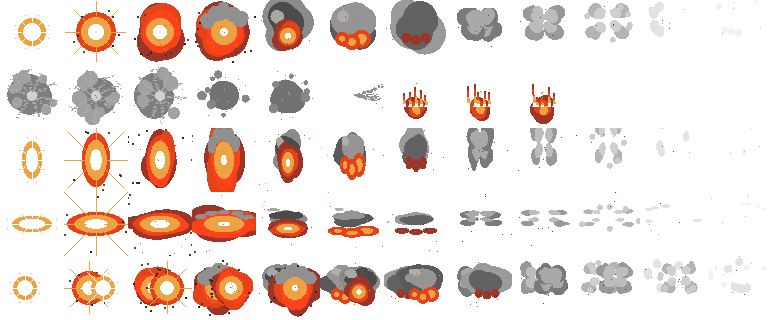
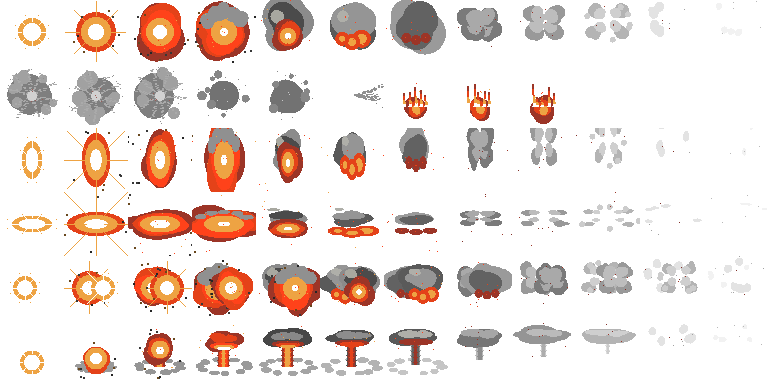
Tank deaths go up as a mushroom cloud in 70% of kills
A new row 5 on barrel_explosion.png (gen_barrel_explosion.py, rows 0-4
byte-identical) draws a mushroom cloud: a fireball climbing a stem of
fire into a rolling cap over a ring of dust. BlastFx::wreck picks it for
wreck_mushroom_chance (default 0.7) of tank kills from a salted position
hash, so no RNG is drawn; the cloud is never quarter-turned and is
lifted so its stem stands on the hull. Barrels never pick it.

Claude-Session: https://claude.ai/code/session_01ChqbDrSDVfRsu29UVhWnEq

diff --git a/tools/spritegen/gen_barrel_explosion.py b/tools/spritegen/gen_barrel_explosion.py
@@ -1,7 +1,7 @@
 """Generate static/barrel_explosion.png - the oil barrel's blast animation
 and the scorch marks it leaves (docs/PROPS_SPEC.md, blast.rs).
 
-Layout: 768x320, five rows of 64x64 cells.
+Layout: 768x384, six rows of 64x64 cells.
     row 0  cols 0-11  the one-shot blast: flash, fireball, mushroom, smoke
     row 1  cols 0-4   five scorch-decal variants (three blots, two oil
                       splatters), col 5 the directional streak a shot's
@@ -11,6 +11,9 @@ Layout: 768x320, five rows of 64x64 cells.
     row 2  cols 0-11  the tall blast: a narrow column that rises fast
     row 3  cols 0-11  the flat blast: a wide, low splash, little smoke
     row 4  cols 0-11  the double blast: two cores, the second a beat behind
+    row 5  cols 0-11  the mushroom cloud a dying tank goes up in: a fireball
+                      that climbs a stem of fire, spreads into a rolling
+                      cap over a ring of dust, and thins out as smoke
 Row 0 is drawn by exactly the code it always was, so it is byte-identical
 to the single-row sheet; the new rows share its primitives through a
 shape table (sx, sy, rise, smoke, twin) and pick the same frame stages.
@@ -40,7 +43,7 @@ SCORCHES = 5
 STREAK_COL = 5
 FIRE_COL = 6
 FIRE_FRAMES = 3
-ROWS = 5
+ROWS = 6
 OUT = os.environ.get('SPRITE_OUT', 'assets/sprites')
 os.makedirs(OUT, exist_ok=True)
 
@@ -402,6 +405,110 @@ def double_frame(f, rng, sh):
     return first
 
 
+# ---------------------------------------------------------------- mushroom cloud
+# Row 5, a tank's death: never quarter-turned (the stem has to point up),
+# so every frame is drawn upright. The column stands on BASE, a little
+# below the cell centre, so the fire climbs off the hull rather than off
+# the ground behind it; the cap tops out near the cell's upper edge.
+BASE = 46
+
+
+def stem(img, top, bottom, w, cols):
+    """The column: nested widths, outermost colour first, a pixel of
+    wobble per row so it reads as rolling fire rather than a pipe."""
+    for i, c in enumerate(cols):
+        half = w * (1 - i / len(cols))
+        for y in range(int(top), int(bottom) + 1):
+            wob = 1 if (y * 7 + i * 3) % 5 == 0 else 0
+            for x in range(int(CX - half) - wob, int(CX + half) + 1 + wob):
+                put(img, x + 0.5, y, c)
+
+
+def skirt(img, rx, ry, c, rng, n=10):
+    """The ring of dust thrown out along the ground at the base."""
+    for k in range(n):
+        a = k * math.tau / n + rng.random() * 0.3
+        ell(img, CX + math.cos(a) * rx, BASE + math.sin(a) * ry, 4 + rng.random() * 2, 2 + rng.random(), c)
+
+
+def cap(img, cy, rx, ry, outer, inner, belly, rng):
+    """The rolling head: a lumpy flattened dome of `outer`, a smaller
+    `inner` roll on top, and `belly` - the fire still lighting its
+    underside - along the bottom edge."""
+    elump(img, CX, cy, rx, ry, outer, rng, 9)
+    elump(img, CX - rx * 0.25, cy - ry * 0.35, rx * 0.5, ry * 0.45, inner, rng, 5)
+    elump(img, CX + rx * 0.3, cy - ry * 0.3, rx * 0.45, ry * 0.4, inner, rng, 5)
+    if belly:
+        for k, c in enumerate(belly):
+            ell(img, CX, cy + ry * (0.45 + 0.12 * k), rx * (0.7 - 0.18 * k), ry * (0.35 - 0.08 * k), c)
+
+
+def mushroom_frame(f, rng):
+    img = blank()
+    if f == 0:
+        disc(img, CX, BASE - 4, 8, C(WHITE))
+        annulus(img, CX, BASE - 4, 8, 12, C(GOLD_BRIGHT))
+        rays(img, CX, BASE - 4, 17, C(WHITE), start=9)
+    elif f == 1:
+        skirt(img, 16, 5, smoke(200), rng)
+        lump(img, CX, BASE - 8, 15, C(RED_MD), rng, 7)
+        disc(img, CX, BASE - 8, 11, C(GOLD_BRIGHT))
+        disc(img, CX, BASE - 8, 6, C(WHITE))
+        debris(img, CX, BASE - 6, 20, 8, rng, DEBRIS)
+    elif f == 2:
+        skirt(img, 21, 6, smoke(210), rng)
+        stem(img, BASE - 14, BASE, 5, [C(RED_DEEP), C(RED_MD), C(GOLD_BRIGHT)])
+        lump(img, CX, BASE - 18, 16, C(RED_DEEP), rng, 8)
+        lump(img, CX, BASE - 18, 13, C(RED_MD), rng, 7)
+        disc(img, CX, BASE - 17, 9, C(GOLD_BRIGHT))
+        disc(img, CX, BASE - 16, 4, C(WHITE))
+        debris(img, CX, BASE - 12, 24, 10, rng, DEBRIS)
+        embers(img, CX, BASE - 14, 24, 10, rng, [C(GOLD_BRIGHT), C(RED_BRIGHT)])
+    elif f == 3:
+        skirt(img, 24, 7, smoke(200), rng)
+        stem(img, BASE - 22, BASE, 5, [C(RED_DEEP), C(RED_MD), C(RED_BRIGHT), C(GOLD_BRIGHT)])
+        cap(img, BASE - 25, 20, 10, C(RED_DEEP), C(RED_MD),
+            [C(RED_BRIGHT), C(GOLD_BRIGHT), C(WHITE)], rng)
+        embers(img, CX, BASE - 20, 24, 12, rng, [C(GOLD_BRIGHT), C(RED_BRIGHT)])
+    elif f == 4:
+        skirt(img, 25, 7, smoke(180), rng)
+        stem(img, BASE - 24, BASE, 5, [C(RED_DEEP), C(RED_MD), C(GOLD_BRIGHT)])
+        cap(img, BASE - 27, 23, 10, smoke_dk(235), smoke(235),
+            [C(RED_DEEP), C(RED_MD), C(GOLD_BRIGHT)], rng)
+        embers(img, CX, BASE - 22, 24, 10, rng, [C(GOLD_BRIGHT), C(RED_BRIGHT), C(RED_MD)])
+    elif f == 5:
+        skirt(img, 26, 7, smoke(150), rng)
+        stem(img, BASE - 26, BASE, 4, [smoke_dk(220), C(RED_DEEP), C(RED_MD)])
+        cap(img, BASE - 28, 24, 10, smoke_dk(225), smoke(225),
+            [C(RED_DEEP), C(RED_MD)], rng)
+        embers(img, CX, BASE - 24, 24, 8, rng, [C(GOLD_BRIGHT), C(RED_BRIGHT)])
+    elif f == 6:
+        skirt(img, 26, 7, smoke(115), rng)
+        stem(img, BASE - 27, BASE - 2, 4, [smoke(200), smoke_dk(200), C(RED_DEEP)])
+        cap(img, BASE - 29, 25, 10, smoke_dk(210), smoke_lt(210), [C(RED_DEEP)], rng)
+        embers(img, CX, BASE - 26, 26, 6, rng, [C(RED_BRIGHT), C(RED_MD)])
+    elif f in (7, 8, 9):
+        alpha = {7: 175, 8: 135, 9: 95}[f]
+        rise = f - 6
+        stem(img, BASE - 28 - rise, BASE - 4 - rise * 3, 3 - (f - 7), [smoke(alpha - 30), smoke_dk(alpha - 30)])
+        cap(img, BASE - 30 - rise // 2, 25 + rise, 10 - (f - 7), smoke_dk(alpha), smoke(alpha), None, rng)
+        embers(img, CX, BASE - 30, 24, 8 - (f - 7) * 2, rng, [C(RED_DK), C(RED_DEEP)])
+    elif f == 10:
+        for k in range(6):
+            a = rng.random() * math.tau
+            lump(img, CX + math.cos(a) * 22, BASE - 32 + math.sin(a) * 7, 5, smoke(55), rng, 4)
+        for _ in range(4):
+            put(img, CX + rng.randint(-26, 26), BASE - 32 + rng.randint(-8, 18), smoke_dk(120))
+        embers(img, CX, BASE - 30, 20, 2, rng, [C(RED_DK)])
+    else:
+        for k in range(5):
+            a = rng.random() * math.tau
+            lump(img, CX + math.cos(a) * 24, BASE - 33 + math.sin(a) * 7, 3, smoke(25), rng, 3)
+        for _ in range(5):
+            put(img, CX + rng.randint(-27, 27), BASE - 33 + rng.randint(-8, 18), smoke_dk(90))
+    return img
+
+
 def streak(rng):
     """Oil thrown downrange by a shot's blast: streaks fanning out to the
     right from just off centre, drawn over the blot."""
@@ -481,5 +588,7 @@ for row, name in ((2, 'tall'), (3, 'flat'), (4, 'double')):
         rng = random.Random(1200 + row * 100 + f * 7)
         cell = double_frame(f, rng, sh) if sh['twin'] else shaped_frame(f, rng, sh)
         sheet.paste(cell, (f * S, row * S))
+for f in range(FRAMES):
+    sheet.paste(mushroom_frame(f, random.Random(1800 + f * 7)), (f * S, 5 * S))
 sheet.save(f'{OUT}/barrel_explosion.png')
 print('barrel_explosion.png', sheet.size)

diff --git a/src/blast.rs b/src/blast.rs
@@ -22,7 +22,9 @@ use crate::{
     BARREL_EXPLOSION_TEXTURE_SIZE,
     BLAST_ROW_DOUBLE,
     BLAST_ROW_FLAT,
+    BLAST_MUSHROOM_BASE_DROP,
     BLAST_ROW_MUSHROOM,
+    BLAST_ROW_MUSHROOM_CLOUD,
     BLAST_ROW_TALL,
     BLAST_SHAPE_ROWS,
     FIRE_LOOP_COL,
@@ -66,6 +68,10 @@ fn avalanche(mut h: u32) -> u32 {
     h ^= h >> 16;
     h
 }
+
+/// `seed_at` salt for the wreck's mushroom-cloud pick, clear of the
+/// other salts hashed at a kill position (parts, rubble, particles).
+const WRECK_MUSHROOM_SALT: u32 = 211;
 
 /// A unit-ish direction in the plane, for the cosmetic lean of a blast.
 /// Plain fields rather than a `Vector2` so the simulation can hand one
@@ -131,9 +137,32 @@ pub struct BlastFx {
 
 impl BlastFx {
     /// The reference fireball at `center`: the hashed shape, mirror,
-    /// turn and jitter with no cause-driven lean. What a dying tank uses.
+    /// turn and jitter with no cause-driven lean.
     pub fn new(center: Position) -> Self {
         Self::shaped(center, BlastKind::Oil, BlastShape::Plain)
+    }
+
+    /// A dying tank's fireball: the mushroom cloud in
+    /// `wreck_mushroom_chance` of kills, the reference fireball otherwise.
+    pub fn wreck(center: Position) -> Self {
+        Self::wreck_with(center, tuning().wreck_mushroom_chance)
+    }
+
+    /// `wreck` with the chance passed in. The pick is a salted position
+    /// hash, independent of the one that picks the plain row, so no RNG
+    /// is drawn. The cloud keeps the hashed mirror and jitter but not the
+    /// quarter-turn (its stem has to point up), and is lifted so the stem
+    /// stands on the hull.
+    pub fn wreck_with(center: Position, mushroom_chance: f32) -> Self {
+        let mut fx = Self::new(center);
+        let roll = (seed_at(center, WRECK_MUSHROOM_SALT) % 10_000) as f32 / 10_000.0;
+        if roll < mushroom_chance {
+            fx.row = BLAST_ROW_MUSHROOM_CLOUD;
+            fx.turn = 0;
+            let lift = BLAST_MUSHROOM_BASE_DROP * tuning().blast_anim_scale * fx.scale;
+            fx.offset = Lean { x: 0.0, y: -(lift / 2.0).round() * 2.0 };
+        }
+        fx
     }
 
     /// A barrel's fireball, shaped by what set it off.

diff --git a/src/lib.rs b/src/lib.rs
@@ -552,14 +552,15 @@ pub const PROPS_OIL_VARIANTS: i32 = 4;
 // scorch cells, drawn at scale 2 over a burning cell (a pool or a trail).
 pub const FIRE_LOOP_COL: i32 = 6;
 pub const FIRE_LOOP_FRAMES: i32 = 3;
-// barrel_explosion.png: 768x320, five rows of 64x64 cells. Row 0 is the
+// barrel_explosion.png: 768x384, six rows of 64x64 cells. Row 0 is the
 // one-shot blast animation (12 frames, col * BARREL_EXPLOSION_TEXTURE_SIZE,
 // like the frog filmstrips), drawn at `blast_anim_scale`; row 1 holds
 // SCORCH_VARIANTS ground-decal cells a blast leaves behind plus the
 // directional streak at SCORCH_STREAK_COL; rows 2-4 are three more
 // fireball shapes (a tall column, a flat splash, a double core) the blast
-// picks between by its position hash (`blast::BlastFx::row`). See
-// docs/PROPS_SPEC.md and blast.rs.
+// picks between by its position hash (`blast::BlastFx::row`); row 5 is
+// the mushroom cloud a dying tank goes up in (`BlastFx::wreck`, never a
+// barrel). See docs/PROPS_SPEC.md and blast.rs.
 pub const BARREL_EXPLOSION_TEXTURE_SIZE: f32 = 64.0;
 pub const BARREL_EXPLOSION_FRAMES: i32 = 12;
 pub const SCORCH_ROW: i32 = 1;
@@ -572,6 +573,15 @@ pub const BLAST_ROW_MUSHROOM: i32 = 0;
 pub const BLAST_ROW_TALL: i32 = 2;
 pub const BLAST_ROW_FLAT: i32 = 3;
 pub const BLAST_ROW_DOUBLE: i32 = 4;
+/// The tank-death mushroom cloud: a stem of fire under a rolling cap.
+/// Outside `BLAST_SHAPE_ROWS`, so a barrel never picks it, and drawn
+/// upright - its fire frames are never quarter-turned.
+pub const BLAST_ROW_MUSHROOM_CLOUD: i32 = 5;
+/// How far (sheet px) below its cell's centre the mushroom cloud's stem
+/// stands (`BASE` in gen_barrel_explosion.py, less the centre 32): the
+/// sprite is lifted by this times its draw scale so the stem rises off
+/// the hull.
+pub const BLAST_MUSHROOM_BASE_DROP: f32 = 14.0;
 // Oldest scorch marks are dropped past this many, so a long round with many
 // barrels doesn't accumulate an unbounded decal list.
 pub const SCORCH_MAX: usize = 64;

diff --git a/src/simulation/props_tests.rs b/src/simulation/props_tests.rs
@@ -1350,6 +1350,33 @@ fn every_blast_shape_and_jitter_comes_from_the_position_hash() {
 }
 
 #[test]
+fn a_dying_tank_goes_up_as_a_mushroom_cloud_in_its_share_of_kills() {
+    // The pick is a position hash: the same spot always picks the same
+    // way, the share over many kill spots tracks the chance, and the
+    // cloud is never quarter-turned (its stem points up).
+    use crate::blast::BlastFx;
+    let spots: Vec<Position> = (0..2000).map(|i| Position::new(40.0 + (i % 50) as f32 * 13.7, 60.0 + (i / 50) as f32 * 11.3)).collect();
+    let is_cloud = |fx: &BlastFx| fx.row == crate::BLAST_ROW_MUSHROOM_CLOUD;
+    let clouds = spots.iter().filter(|&&p| is_cloud(&BlastFx::wreck_with(p, 0.7))).count();
+    let share = clouds as f32 / spots.len() as f32;
+    assert!((0.65..=0.75).contains(&share), "about 70% of kills are mushroom clouds: {share}");
+    for &p in &spots {
+        let fx = BlastFx::wreck_with(p, 0.7);
+        assert_eq!(is_cloud(&fx), is_cloud(&BlastFx::wreck_with(p, 0.7)));
+        if is_cloud(&fx) {
+            assert_eq!(fx.turn, 0);
+            assert!(fx.offset.y < 0.0, "lifted so the stem stands on the hull");
+        } else {
+            assert!(crate::BLAST_SHAPE_ROWS.contains(&fx.row));
+        }
+    }
+    assert!(spots.iter().all(|&p| !is_cloud(&BlastFx::wreck_with(p, 0.0))));
+    assert!(spots.iter().all(|&p| is_cloud(&BlastFx::wreck_with(p, 1.0))));
+    // A barrel never goes up as the cloud.
+    assert!(!crate::BLAST_SHAPE_ROWS.contains(&crate::BLAST_ROW_MUSHROOM_CLOUD));
+}
+
+#[test]
 fn debug_detonate_sets_a_barrel_off_like_a_direct_hit() {
     // Two oil drums side by side: the asked-for one goes up on the next
     // frame as an unchained blast, its neighbour chains off it on a fuse.

diff --git a/src/tuning.rs b/src/tuning.rs
@@ -1331,6 +1331,10 @@ tunables! {
         cookoff_count: i32 = 2 in 0 ..= 12;
         cookoff_window_seconds: f32 = 1.6 in 0.1 ..= 10.0;
         cookoff_blast_scale: f32 = 0.45 in 0.1 ..= 2.0;
+        /// Share of tank deaths that go up as the mushroom cloud (a stem
+        /// of fire under a rolling cap) instead of a plain fireball.
+        /// Picked from the kill position's hash, so no RNG is drawn.
+        wreck_mushroom_chance: f32 = 0.7 in 0.0 ..= 1.0;
         /// A dying tank burns its last tread marks into the ground: this
         /// many of them stop fading and darken by this multiple, so the
         /// kill site stays readable after the wreck is cleared.

diff --git a/src/simulation/mod.rs b/src/simulation/mod.rs
@@ -2503,7 +2503,7 @@ impl Game {
     /// of `blast::seed_at` salted per piece, so a spectacular death cannot
     /// shift a seeded replay.
     fn wreck_fx(&mut self, f: &mut Frame, center: Position) {
-        f.blast_fx.push(BlastFx::new(center));
+        f.blast_fx.push(BlastFx::wreck(center));
         f.impact_flashes.push(Shockwave::new(center));
         self.flash_screen();
         if self.water.depth_at(center) == crate::ground::Depth::Dry {

diff --git a/docs/PROPS_SPEC.md b/docs/PROPS_SPEC.md
@@ -18,7 +18,7 @@ nix-shell -p "python3.withPackages (ps: [ps.pillow])" \
 | File | Size | Grid | Drawn at |
 |---|---|---|---|
 | `props_sheet.png` | 128x320 | 4 cols x 10 rows of 32x32 | `OBSTACLE_SCALE` (1:1, like walls) |
-| `barrel_explosion.png` | 768x320 | 12 cols x 5 rows of 64x64 | `blast_anim_scale` / `scorch_scale` (2.0 default) |
+| `barrel_explosion.png` | 768x384 | 12 cols x 6 rows of 64x64 | `blast_anim_scale` / `scorch_scale` (2.0 default) |
 
 RGBA, no padding, nearest-neighbour sampling. Slice `x = col*cell, y =
 row*cell`. Every non-transparent pixel is on the Puny Palette
@@ -83,7 +83,7 @@ baked into the art.
 
 ## 3. Sheet map — `barrel_explosion.png`
 
-Rows 0, 2, 3 and 4, cols 0–11: the one-shot blast in four shapes
+Rows 0, 2, 3 and 4, cols 0–11: the one-shot barrel blast in four shapes
 (`BLAST_SHAPE_ROWS`), played at `blast_anim_fps` times a per-blast hashed
 jitter (`barrel_fps_jitter`), clamped to the last frame, removed when done
 (`blast::BlastFx`). Row 0 is the mushroom described below; row 2 is the
@@ -113,6 +113,24 @@ From frame 4 the cloud's centre drifts up one pixel a frame — smoke rising
 by its `seed` (a hash of its position) so two chained blasts don't look
 cloned; drawn oldest first, a chained blast's flash lands on the earlier
 fireball and reads as a second detonation.
+
+Row 5, cols 0–11: the **mushroom cloud**, a tank's death only
+(`BLAST_ROW_MUSHROOM_CLOUD`, outside `BLAST_SHAPE_ROWS` so a barrel never
+picks it). `BlastFx::wreck` takes it for `wreck_mushroom_chance` (0.7) of
+kills, picked from a salted position hash (no RNG); the rest get the
+reference fireball. It keeps the hashed mirror and jitter but is never
+quarter-turned, and is lifted by `BLAST_MUSHROOM_BASE_DROP` times its draw
+scale so the stem stands on the hull.
+
+| Frame | Content |
+|---|---|
+| 0 | the flash, low in the cell where the stem will stand |
+| 1 | fireball on the ground, the first ring of dust around it |
+| 2 | the fireball climbs off a short stem of fire, debris and embers |
+| 3 | the head spreads into a fiery cap with a white-hot underside over a rising stem |
+| 4–6 | the cap turns to dark rolling smoke, its belly still lit red, the stem cooling from gold to smoke, the dust ring spreading and fading |
+| 7–9 | the cap drifts up and widens as the stem thins, alpha 175 → 95 |
+| 10–11 | wisps and specks where the cap was |
 
 Row 1, cols 0–4: five scorch decals (`SCORCH_VARIANTS`) — three lumpy
 black blots with a darker ring of lumps, ten radial streaks, a lighter
